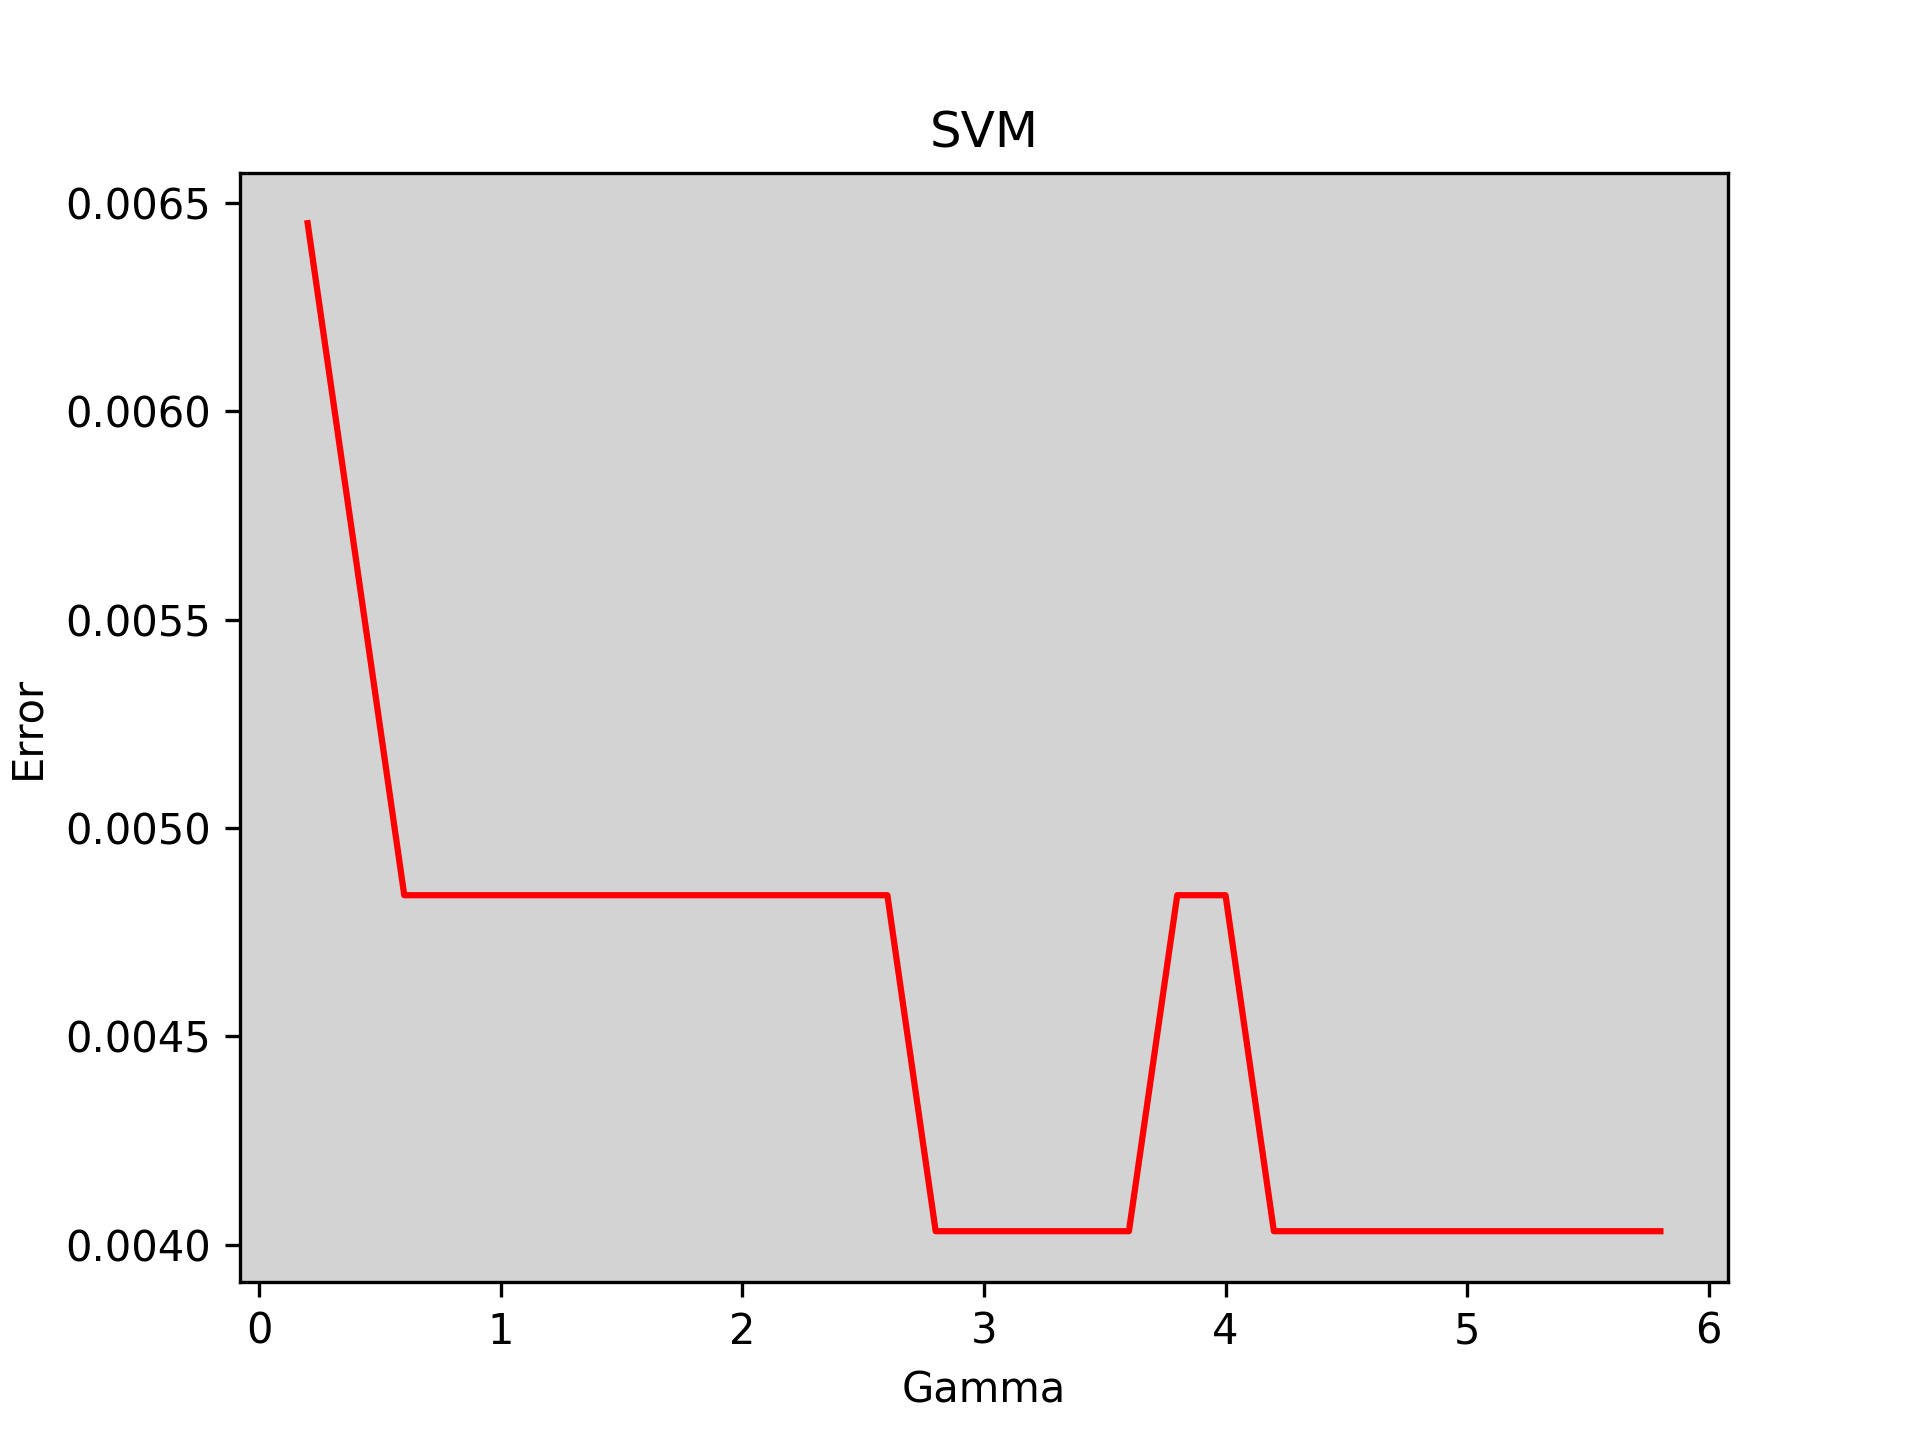
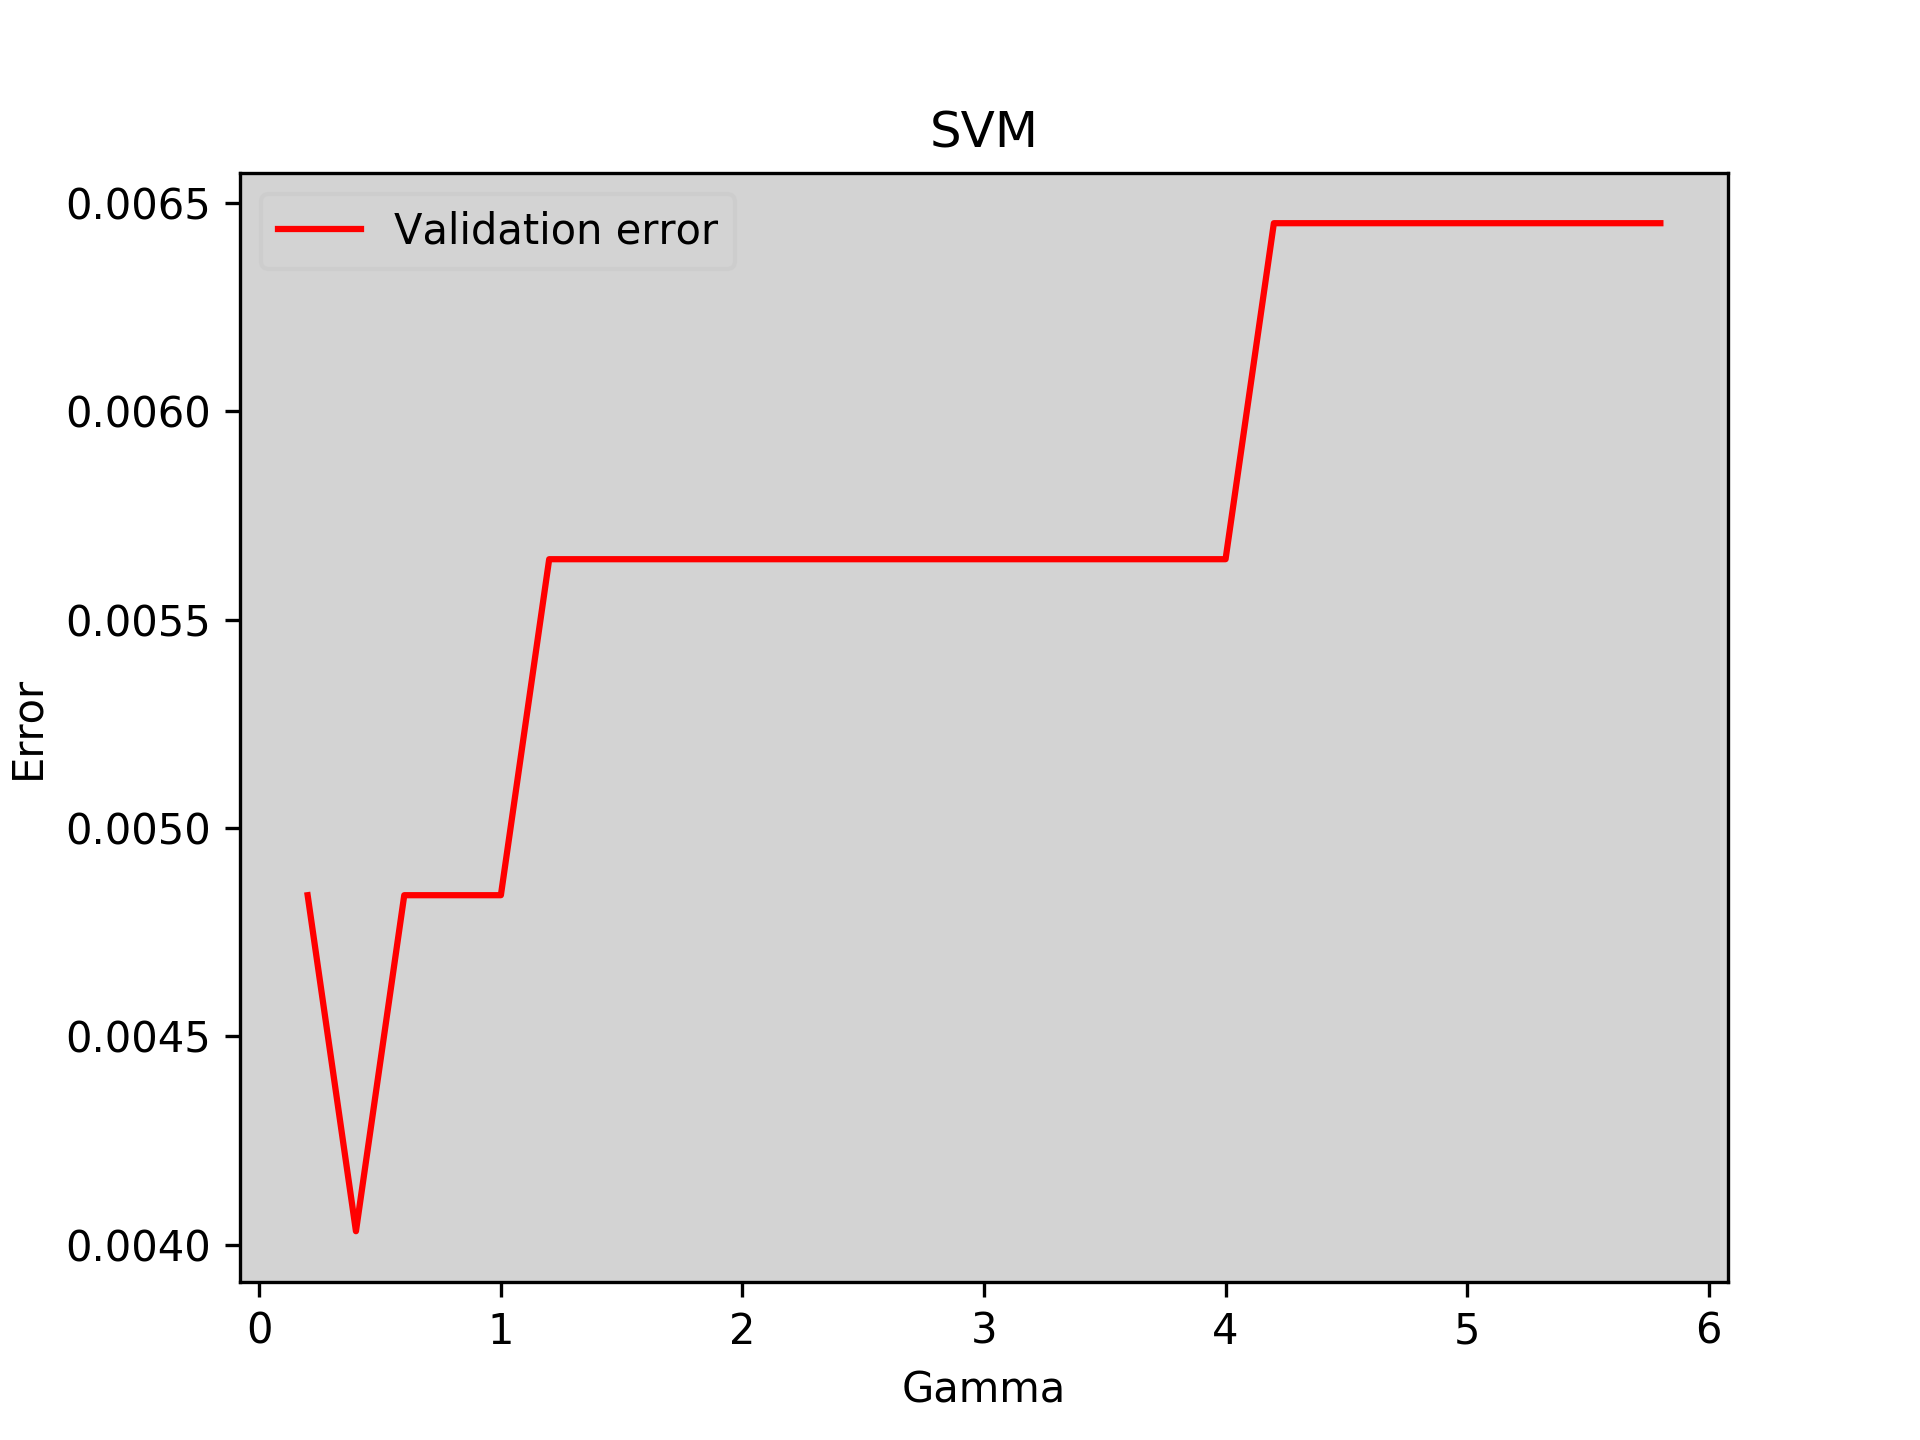
So faltam as perguntas

diff --git a/ourNaive.py b/ourNaive.py
@@ -81,6 +81,7 @@ def kFolds(Ys,Xs,k,values):
     plt.ylabel('Error');
     plt.plot(bandwidths, trainErrorA, '-r', label='Training error');
     plt.plot(bandwidths, trainValidA, '-k', label='Validation error');
+    plt.legend(loc="best");
     plt.savefig("NB", dpi=300);
     return bestBandwidth;
 

diff --git a/SVMWithCrossValid.py b/SVMWithCrossValid.py
@@ -36,6 +36,7 @@ def crossValidateGamma(trainValues,k,trainXs,trainYs,testXs, testYs):
 	pp.xlabel('Gamma');
 	pp.ylabel('Error');
 	pp.plot(gammas,errors,'-r',label='Validation error');
+	pp.legend(loc="best");
 	pp.savefig("SVM",dpi=300);
 	pp.show();
 	return bestGamma,bestVError;
